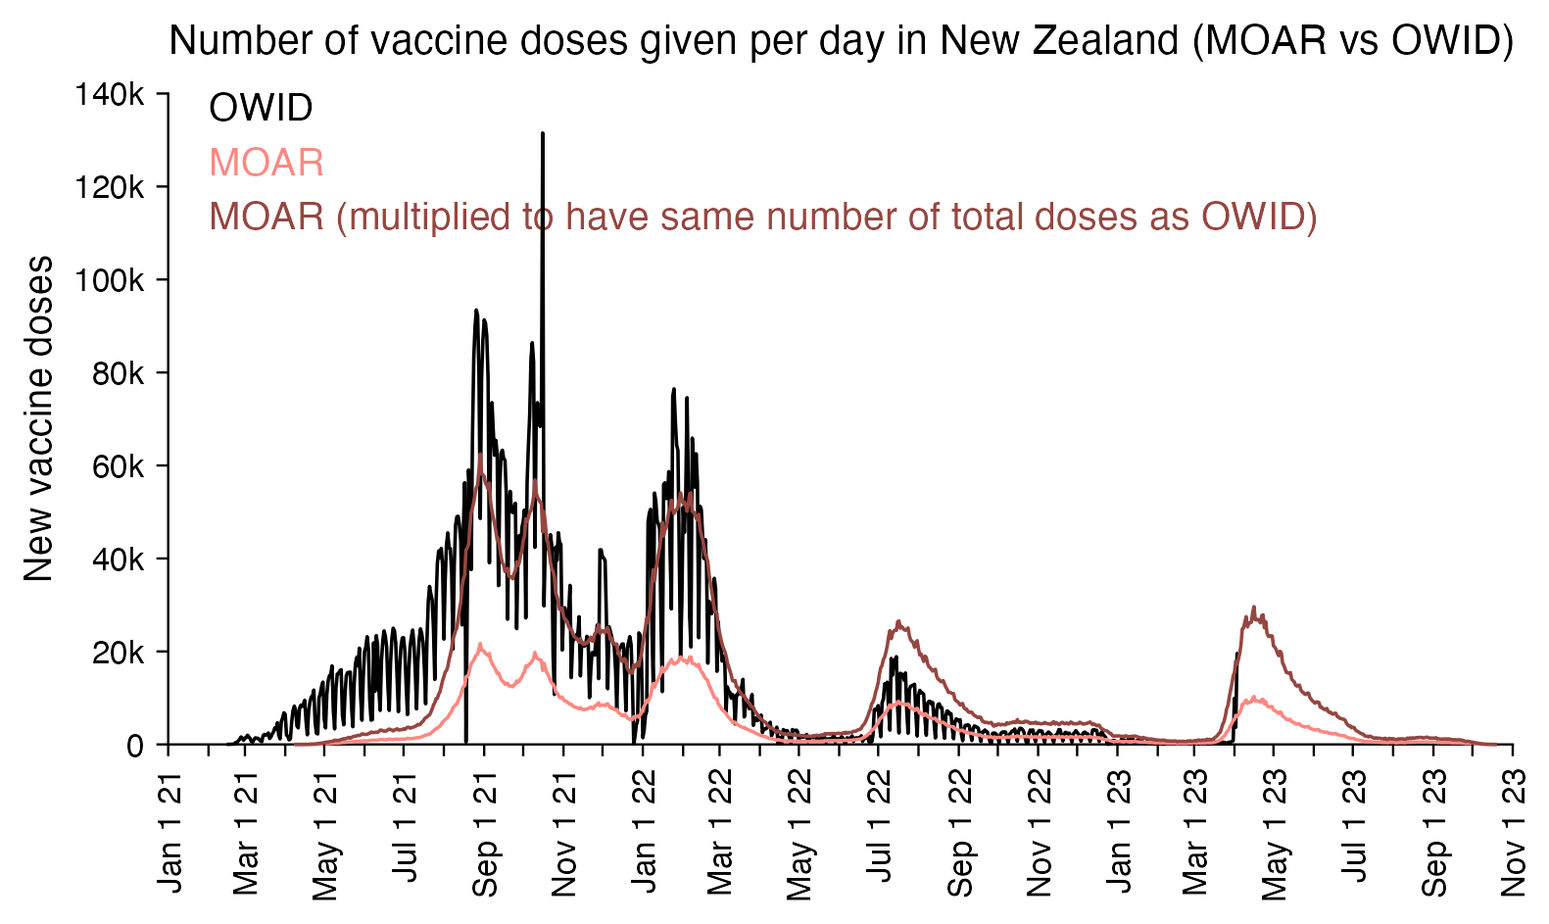
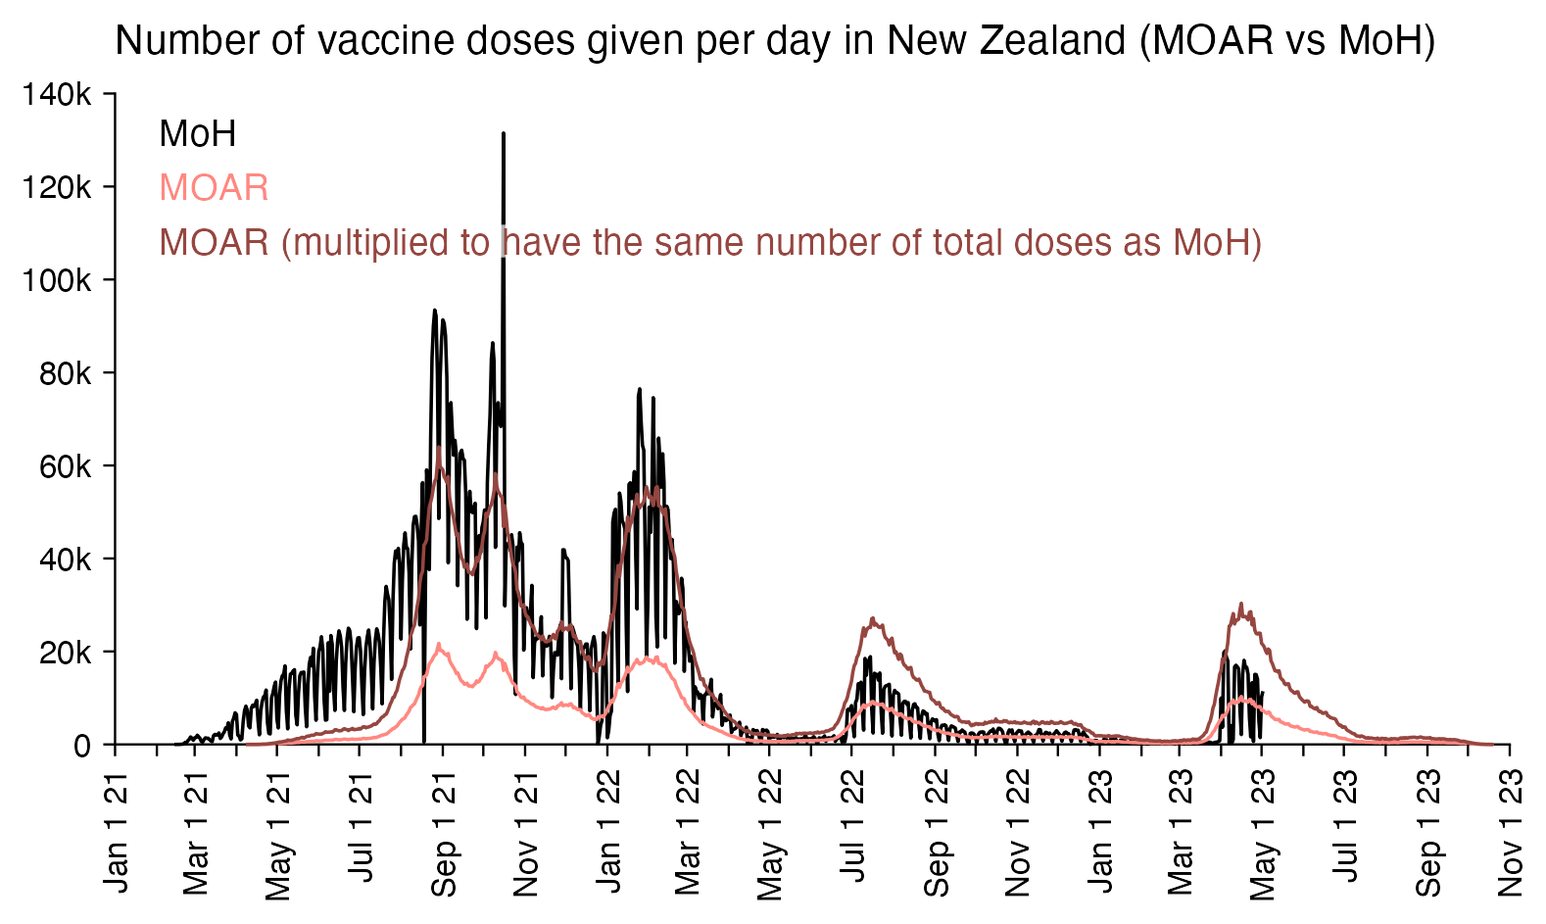
a

diff --git a/moar.html b/moar.html
@@ -47,12 +47,12 @@ th{background:#eee;text-align:left;font-weight:bold}
 <li><a href=#Background>Background</a></li>
 <li><a href=#The_data_is_obfuscated_and_only_contains_records_from_a_pay_per_dose_system>The data is obfuscated and only contains records from a pay-per-dose system</a></li>
 <li><a href=#Anomalies_in_the_CSV_file>Anomalies in the CSV file</a></li>
-<li><a href=#Batch_statistics_in_the_whistleblower_video_dont_match_the_CSV_file>Batch statistics in the whistleblower video don't match the CSV file</a></li>
+<li><a href=#Batch_statistics_in_the_whistleblowers_video_dont_match_the_CSV_file>Batch statistics in the whistleblower's video don't match the CSV file</a></li>
 <li><a href=#Heatmap_for_statistics_per_batch>Heatmap for statistics per batch</a></li>
 <li><a href=#Barry_Youngs_method_of_counting_days_with_120_or_more_deaths>Barry Young's method of counting days with 120 or more deaths</a></li>
 <li><a href=#Excess_mortality_compared_to_new_vaccinations>Excess mortality compared to new vaccinations</a></li>
 <li><a href=#Distribution_of_number_of_days_from_vaccination_until_death>Distribution of number of days from vaccination until death</a></li>
-<li><a href=#Distribution_of_vaccine_doses_given_per_day_compared_to_OWID>Distribution of vaccine doses given per day compared to OWID</a></li>
+<li><a href=#Distribution_of_vaccine_doses_given_per_day>Distribution of vaccine doses given per day</a></li>
 <li><a href=#Table_for_deaths_by_vaccination_site>Table for deaths by vaccination site</a></li>
 <li><a href=#Origins_of_MOAR_data_and_video>Origins of MOAR data and video</a></li>
 <li><a href=#Excess_mortality_in_2021_2023>Excess mortality in 2021-2023</a></li>
@@ -163,9 +163,9 @@ $ awk -F, &#39;NR&gt;1{a[$3]++}END{for(i in a)print i,a[i]}&#39; nz-record-level
 28 1
 29 1
 32 1</pre>
-<p>However the anomalies might be the result of data entry errors, or they may have been caused by the procedure that Kirsch used to obfuscate the data.</p>
+<p>However the anomalies might be the result of data entry errors, or they may have been caused by the procedure that Kirsch used to obfuscate the data. But actually some errors are expected in a large set of records that have been entered manually by humans, and if you would simulate something like the MOAR dataset, you could make it look more realistic by also introducing errors to the simulation.</p>
 <h2>
-<a href=#Batch_statistics_in_the_whistleblower_video_dont_match_the_CSV_file id=Batch_statistics_in_the_whistleblower_video_dont_match_the_CSV_file>Batch statistics in the whistleblower video don't match the CSV file</a>
+<a href=#Batch_statistics_in_the_whistleblowers_video_dont_match_the_CSV_file id=Batch_statistics_in_the_whistleblowers_video_dont_match_the_CSV_file>Batch statistics in the whistleblower's video don't match the CSV file</a>
 </h2>
 <p>Barry Young's presentation included the table below which shows the ten batches with the highest percentage of deaths per dose, but the numbers in the table don't match Kirsch's CSV file: [<a href="https://rumble.com/v3yqgsf-liz-gunn-the-mother-of-all-covid-19-vaccine-revelations-data-revealed-in-th.html">https://rumble.com/v3yqgsf-liz-gunn-the-mother-of-all-covid-19-vaccine-revelations-data-revealed-in-th.html</a>, time 47:00]</p>
 <div class="width6">
@@ -187,11 +187,11 @@ batch  doses_given  deaths  death_pct  most_common_vaccine_type_of_batch  pct_of
 <h2>
 <a href=#Heatmap_for_statistics_per_batch id=Heatmap_for_statistics_per_batch>Heatmap for statistics per batch</a>
 </h2>
-<p>In batch 1 which has by far the highest percentage of deaths per dose, the average age at death is 86 when rounded to the nearest integer, and the average age at vaccination is 66 for all recipients and 85 for dead recipients, and the average number of days between death and vaccination is about 403. The average age at vaccination among dead people is below 85 for all batches with an ID between 2 and 93, but in batch 94 and some newer batches, the average age at vaccination among dead recipients reaches above 85. But compared to batch 1, the newer batches were given much more recently, so they have a smaller percentage of deaths per dose because there's not as many people who have died of old age since vaccination:</p>
+<p>In batch 1 which has by far the highest percentage of deaths per dose, the average age at death is 86 when rounded to the nearest integer, and the average age at vaccination is 66 for all recipients and 85 for dead recipients, and the average number of days between death and vaccination is about 403. The average age at vaccination among dead recipients is below 85 for all batches with an ID between 2 and 93, but in batch 94 and some newer batches, the average age at vaccination among dead recipients reaches above 85. But compared to batch 1, the newer batches were given much more recently, so they have a smaller percentage of deaths per dose because there's not as many people who have died of old age since vaccination:</p>
 <div class="width12">
 <img src="i/moar-heat.png">
 </div>
-<p>In the heatmap above, I omitted 4 small batches that had zero deaths. The end of data refers to October 27th 2023 which is the date of the last death included in the dataset. I calculated the person-years by calculating the time from vaccine dose until either death or October 27th 2023, so that I included the time after a patient got a subsequent dose as part of the person-years of earlier doses.</p>
+<p>In the heatmap above, I omitted 4 small batches that had zero deaths. The end of data refers to October 27th 2023 which is the date of the last death included in the dataset. I calculated the person-years by calculating the time from a vaccine dose until either death or October 27th 2023, so that I included the time after a patient got a subsequent dose as part of the person-years of earlier doses.</p>
 <p>R code:</p>
 <pre>t=read.csv(&quot;nz-record-level-data-4M-records.csv&quot;)
 t2=t[t$date_of_death!=&quot;&quot;,]
@@ -306,7 +306,7 @@ system(&quot;montage -geometry +0+0 -tile 1x i[123].png 1.png&quot;)</pre>
 <div class="width9">
 <img src="i/moar-histogram.png">
 </div>
-<p>It seems unusual that there were only 7 deaths which occurred on the same day as a vaccination. In 2021-2023, the average number of deaths per day in New Zealand would be about 95-100 based on the linear trend in 2011 to 2019, and even if the MOAR dataset would only include about a third of all vaccination records, a third of 97.5 would would still be about 33. Even though I guess if people got vaccinated during the working day, then the average time of day for vaccination might be after midday, and if someone died at 4 AM then they likely hadn't been vaccinated the same day. And the MOAR dataset is also missing deaths among unvaccinated people.</p>
+<p>It seems unusual that there were only 7 deaths which occurred on the same day as a vaccination. In 2021-2023, the average number of deaths per day in New Zealand would've been about 95-100 based on the linear trend in 2011 to 2019, and even if the MOAR dataset would only include about a third of all vaccination records, a third of 97.5 would would still be about 33. Even though I guess if people got vaccinated during the working day, then the average time of day for vaccination might be after midday, and if someone died at 4 AM then they likely hadn't been vaccinated the same day. And the MOAR dataset is also missing deaths among unvaccinated people.</p>
 <p>The earliest date of vaccination in the MOAR dataset is on April 18th 2021, and the number of missing vaccination doses is disproportionately high in the first half of 2021. The latest date of death is on October 27th 2023. So in the histogram above, the number of deaths tapers off at the end of the x-axis and there is only a small number of deaths that occurred more than 800 days after a vaccination, but that's because the dataset only includes a small number of people who were vaccinated early enough that it was possible for them to die more than 800 days from the vaccination.</p>
 <p>R code:</p>
 <pre>library(ggplot2)
@@ -350,7 +350,7 @@ theme(
 )
 
 ggsave(&quot;1.png&quot;,width=6,height=3)</pre>
-<p>In the plot below which shows the number of deaths for each number of days after a vaccination, the 7-day moving average peaked on day 336 for the first dose, on day 298 for the second dose, on day 181 for the third dose, on day 145 for the 4th dose, on day 99 for the fifth dose, and on day 24 for the sixth dose. The reason why the first and second doses took longest to reach the peak was because they were given the earliest, and New Zealand had low excess mortality until 2022:</p>
+<p>In the plot below which shows the number of deaths for each number of days after a vaccination, the 7-day moving average peaked on day 336 for the first dose, on day 298 for the second dose, on day 181 for the third dose, on day 145 for the 4th dose, on day 99 for the fifth dose, and on day 24 for the sixth dose. The reason why the first and second doses took longest to reach the peak was because they were given the earliest, and New Zealand had low excess mortality until 2022. The delay from vaccination to death currently peaks at about 100 days when all doses are aggregated together, but the delay peaks at about 300 days for the first two doses, so if the first two doses wouldn't be underrepresented in the dataset then the aggregated peak might occur much later:</p>
 <div class="width9">
 <img src="i/moar-days-to-death-by-dose.png">
 </div>
@@ -364,25 +364,63 @@ ggsave(&quot;1.png&quot;,width=6,height=3)</pre>
            1            2            3            4            5            6
 &quot;2022-10-02&quot; &quot;2022-10-16&quot; &quot;2022-12-10&quot; &quot;2023-03-29&quot; &quot;2023-07-18&quot; &quot;2023-07-21&quot;</pre>
 <h2>
-<a href=#Distribution_of_vaccine_doses_given_per_day_compared_to_OWID id=Distribution_of_vaccine_doses_given_per_day_compared_to_OWID>Distribution of vaccine doses given per day compared to OWID</a>
+<a href=#Distribution_of_vaccine_doses_given_per_day id=Distribution_of_vaccine_doses_given_per_day>Distribution of vaccine doses given per day</a>
 </h2>
-<p>The proportion of vaccine doses that are missing from the MOAR dataset seems to get lower over time, so that it is high in early 2021 but much lower in late 2022 and 2023:</p>
-<div class="width6">
+<p>The proportion of vaccine doses that are missing from the MOAR dataset gets lower over time, so that the proportion is higher in 2021 but lower in 2023:</p>
+<div class="width7">
 <img src="i/moar-vs-owid-vax-dose.png">
 </div>
-<p>The data from OWID has large dips in the number of vaccines given on weekends but the MOAR data doesn't, which makes it look like it might be a moving average of daily data. And at OWID there's a big spike in the number of vaccine doses given on October 16th 2021, but a similar spike is not visible in the MOAR data.</p>
-<p>If you divide the average number of doses given on weekdays with the average number of doses given on weekends, the ratio is about 1.53 at OWID but about 0.96 in the MOAR dataset:</p>
-<pre>&gt; owid=read.csv(&quot;https://covid.ourworldindata.org/data/owid-covid-data.csv&quot;)
-&gt; weekend=format(as.Date(owid$date),&quot;%u&quot;)&gt;=&quot;6&quot;
-&gt; mean(owid$new_vaccinations[!weekend],na.rm=T)/mean(owid$new_vaccinations[weekend],na.rm=T)
-[1] 1.525399
-&gt; moar=read.csv(&quot;nz-record-level-data-4M-records.csv.gz&quot;)
+<p>From the plot above you can see that the data from the MoH has large dips in the number of vaccines given on weekends, but the data from MOAR is missing the dips which makes it look like it might be a moving average of daily data. And in the MoH data there's a single-day spike in the number of vaccine doses given on October 16th 2021, but a similar spike is not visible in the MOAR data.</p>
+<p>If you divide the average number of doses given on weekdays with the average number of doses given on weekends, the ratio is about 0.96 in the MOAR dataset, but the ratio is about 1.55 in the MoH data and about 1.53 at OWID:</p>
+<pre>&gt; moar=read.csv(&quot;nz-record-level-data-4M-records.csv.gz&quot;)
 &gt; ta=table(moar$date_time_of_service)
 &gt; weekend=format(as.Date(names(ta),&quot;%m-%d-%Y&quot;),&quot;%u&quot;)&gt;=&quot;6&quot;
 &gt; mean(ta[!weekend])/mean(ta[weekend])
-[1] 0.9575534</pre>
-<p>The MOAR data is supposed to consist of vaccine records for <span class="quote">&quot;pay-per-dose&quot;</span> vaccines, so the vaccine doses that are registered in the pay-per-dose system might have a different weekday-weekend ratio than other vaccine doses. Actually from my plot above you can see that there is regularly a slightly higher number of vaccine doses given on weekends than weekdays.</p>
-<p>At first I thought that if the MOAR data is fake, then the dips during the weekends may have been missing if the data was simulated based on weekly data instead of daily data. However that wouldn't explain why there's regularly a slightly higher number of vaccines given on weekends in the MOAR data.</p>
+[1] 0.9575534
+&gt; moh=read.csv(&quot;https://github.com/minhealthnz/nz-covid-data/raw/main/vaccine-data/2023-05-03/doses_by_date.csv&quot;)
+&gt; s=rowSums(moh[,-1])
+&gt; weekend=format(as.Date(moh[,1]),&quot;%u&quot;)&gt;=&quot;6&quot;
+&gt; mean(s[!weekend])/mean(s[weekend])
+[1] 1.551969
+&gt; owid=read.csv(&quot;https://covid.ourworldindata.org/data/owid-covid-data.csv&quot;)
+&gt; weekend=format(as.Date(owid$date),&quot;%u&quot;)&gt;=&quot;6&quot;
+&gt; mean(owid$new_vaccinations[!weekend],na.rm=T)/mean(owid$new_vaccinations[weekend],na.rm=T)
+[1] 1.525399</pre>
+<p>I have thought of three possible explanations for the difference in the weekend-weekday ratio, where I consider option 1 to be the most likely:</p>
+<ol style="list-style-type: decimal">
+<li>The procedure that was used to obfuscate the data resulted in the dates getting shifted so that some vaccine doses that were actually given on weekdays ended up being listed on weekends. Kirsch said that <span class="quote">&quot;we time-shifted all of the dates relative to each other, but the dates relative to each other are the same - we just shifted them slightly in time so that you can still do the statistical analysis without violating anyone's privacy&quot;</span>. [<a href="https://banned.video/watch?id=656a5c4e0681e68064e50415">https://banned.video/watch?id=656a5c4e0681e68064e50415</a>, time 14:25]</li>
+<li>The vaccine doses registered in the <span class="quote">&quot;pay-per-dose&quot;</span> system might have a different weekday-weekend ratio than vaccine doses registered in other systems. Actually from my plot above you can see that the MOAR data regularly has a slightly higher number of vaccine doses given on weekends than weekdays. But a problem with this explanation is that during many weekends in April 2023 and in July to December 2022, the MOAR dataset actually has a larger number of vaccine doses listed on weekends than the MoH data, even though the MOAR data is supposed to be a subset of the MoH data.</li>
+<li>At first I thought that if the MOAR data is fake, then the dips during the weekends may have been missing if the data was simulated based on weekly data instead of daily data, because I didn't find daily data for the number of new doses given in New Zealand after May 2023 but only weekly data. [<a href="https://www.tewhatuora.govt.nz/our-health-system/data-and-statistics/covid-vaccine-data/">https://www.tewhatuora.govt.nz/our-health-system/data-and-statistics/covid-vaccine-data/</a>, <a href="https://github.com/minhealthnz/nz-covid-data/blob/main/vaccine-data/2023-05-03/doses_by_date.csv">https://github.com/minhealthnz/nz-covid-data/blob/main/vaccine-data/2023-05-03/doses_by_date.csv</a>] However why would simulated data regularly have a slightly higher number of vaccines given on weekends than weekdays? Did the simulation include a parameter which modeled variation in the number of doses given on different days of the week, but its results were completely different from the real vaccination data published by the MoH?</li>
+</ol>
+<p>The data for the daily number of new vaccine doses at OWID is almost identical to a file that was published on the GitHub account of the New Zealand Ministry of Health. On some days there's a difference of one or two dose. On the last week of data included at OWID, many days have a fairly large number of missing doses, which might be because there was a registration delay in adding new vaccination doses, because OWID only includes data up to April 4th but the file published by the Ministry of Health includes data up to May 2nd:</p>
+<pre>$ wget -q https://github.com/minhealthnz/nz-covid-data/raw/main/vaccine-data/2023-05-03/doses_by_date.csv
+$ (gsed -u 1q;tail -n4)&lt;doses_by_date.csv
+Date,First doses,Second doses,Third primary doses,First Boosters,Second Boosters
+2023-04-29,28,2695,0,127,2247
+2023-04-30,12,632,0,49,774
+2023-05-01,20,6551,10,177,3452
+2023-05-02,18,7422,4,206,3788
+$ awk &#39;NR==1||/New Zealand/&#39; owid-covid-data.csv|csvtk cut -f date,new_vaccinations|awk -F, &#39;NR==FNR{a[$1]=$2;next}{x=0;for(i=2;i&lt;=NF;i++)x+=$i;if(a[$1])print $1,x,a[$1]}&#39; - &lt;(sed 1d doses_by_date.csv)|tail -n20
+2023-03-16 599 599.0
+2023-03-17 536 536.0
+2023-03-18 269 269.0
+2023-03-19 111 111.0
+2023-03-20 370 370.0
+2023-03-21 486 484.0
+2023-03-22 479 480.0
+2023-03-23 481 479.0
+2023-03-24 453 453.0
+2023-03-25 329 328.0
+2023-03-26 103 103.0
+2023-03-27 424 424.0
+2023-03-28 474 473.0
+2023-03-29 509 505.0
+2023-03-30 623 619.0
+2023-03-31 800 793.0
+2023-04-01 9958 9927.0
+2023-04-02 3692 3685.0
+2023-04-03 19746 19488.0
+2023-04-04 20129 19733.0</pre>
 <h2>
 <a href=#Table_for_deaths_by_vaccination_site id=Table_for_deaths_by_vaccination_site>Table for deaths by vaccination site</a>
 </h2>
@@ -390,8 +428,8 @@ ggsave(&quot;1.png&quot;,width=6,height=3)</pre>
 <div class="width6">
 <img src="i/moar-deaths-per-site.jpg">
 </div>
-<p>The first row of the table is a nursing home called <span class="quote">&quot;Te Hopai Home &amp; Hospital&quot;</span>, which has 191 vaccinations and 61 deaths which results in ratio of about 32% deaths per vaccination. I don't know if the number of vaccinations refers to the number of vaccine doses given or the number of vaccinated patients, because information about vaccination sites was not included in the files that Kirsch published on his cloud server.</p>
-<p>But in any case, <span class="quote">&quot;The Hopai Home &amp; Hospital&quot;</span> is a nursing home. [<a href="https://www.tehopai.co.nz/">https://www.tehopai.co.nz/</a>] The dataset published by the whistleblower includes about two and half years of data, so over that period of time, it's not that unusual that about 30% of vaccine doses in a nursing home would've been given to people who are now dead.</p>
+<p>The vaccination site on the first row of the table is called <span class="quote">&quot;Te Hopai Home &amp; Hospital&quot;</span>, which has 191 vaccinations and 61 deaths which results in ratio of about 32% deaths per vaccination. I don't know if the number of vaccinations refers to the number of vaccine doses given or the number of vaccinated patients, because data about vaccination sites was not included in the files published by Kirsch.</p>
+<p>But in any case, <span class="quote">&quot;The Hopai Home &amp; Hospital&quot;</span> is a nursing home. [<a href="https://www.tehopai.co.nz/">https://www.tehopai.co.nz/</a>] The dataset published by the whistleblower includes about two and half years of data, so over that period of time, it's not that unusual that about 30% of vaccine doses in a nursing home would've been given to people who are now dead, or in fact it would seem like a low figure. However someone posted this comment on Igor Chudov's Substack: <span class="quote">&quot;Te Hopai was a vaccination centre for the public, not just aged care residents. Teenagers got jabs there so you are being very misleading here.&quot;</span> [<a href="https://www.igor-chudov.com/p/i-analyzed-the-leaked-nz-whistleblower/comment/44717804">https://www.igor-chudov.com/p/i-analyzed-the-leaked-nz-whistleblower/comment/44717804</a>]</p>
 <h2>
 <a href=#Origins_of_MOAR_data_and_video id=Origins_of_MOAR_data_and_video>Origins of MOAR data and video</a>
 </h2>
@@ -404,7 +442,7 @@ ggsave(&quot;1.png&quot;,width=6,height=3)</pre>
 <li>2023-11-30T09:34Z - The Substack post by aussie17 is posted. [<a href="https://www.aussie17.com/p/new-zealand-government-data-administrator">https://www.aussie17.com/p/new-zealand-government-data-administrator</a>]</li>
 <li>2023-11-30T23:00Z - The Substack post by Kirsch is posted. [<a href="https://kirschsubstack.com/p/data-from-us-medicare-and-the-new">https://kirschsubstack.com/p/data-from-us-medicare-and-the-new</a>]</li>
 </ul>
-<p>Guy Hatchard wrote: <span class="quote">&quot;I write extensively in NZ at HatchardReport.com and GLOBE.GLOBAL. The data set has been offered to a number of people in NZ over the last couple of years but not taken up apparently because of the difficulties you point out including age bias, sorting out a clean and reliable set, and access to whole source. It wasn't offered to myself.&quot;</span> [<a href="https://www.igor-chudov.com/p/i-analyzed-the-leaked-nz-whistleblower/comment/44668599">https://www.igor-chudov.com/p/i-analyzed-the-leaked-nz-whistleblower/comment/44668599</a>] However Steve Kirsch said that he was next going to publish a similar set of <span class="quote">&quot;record-level data&quot;</span> from Israel and another set of record-level data from the United States. So if the data from New Zealand had been offered to other people long before Kirsch, then why did Kirsch happen to get access to the record-level data from New Zealand around the same time when he got access to similar data from Israel and the United States?</p>
+<p>Guy Hatchard wrote: <span class="quote">&quot;I write extensively in NZ at HatchardReport.com and GLOBE.GLOBAL. The data set has been offered to a number of people in NZ over the last couple of years but not taken up apparently because of the difficulties you point out including age bias, sorting out a clean and reliable set, and access to whole source. It wasn't offered to myself.&quot;</span> [<a href="https://www.igor-chudov.com/p/i-analyzed-the-leaked-nz-whistleblower/comment/44668599">https://www.igor-chudov.com/p/i-analyzed-the-leaked-nz-whistleblower/comment/44668599</a>] However Steve Kirsch said that he was next going to publish a similar set of <span class="quote">&quot;record-level data&quot;</span> from Israel and another set of record-level Medicare data from the United States. So if the data from New Zealand had been offered to other people long before Kirsch, then why did Kirsch happen to get access to the record-level data from New Zealand around the same time when he got access to similar data from Israel and the United States?</p>
 <p>An health freedom organization from New Zealand issued a statement which said: [<a href="https://www.voicesforfreedom.co.nz/blog/whistle-blower-data-release/">https://www.voicesforfreedom.co.nz/blog/whistle-blower-data-release/</a>]</p>
 <blockquote>
 <p>The whistleblower contacted us a couple of years ago. We kept in touch, and he wanted to wait until he had a more substantial data set. We checked in periodically and had a legal team and investigative journalist ready to tackle the story in 2021. Despite this, he was not ready to speak up.</p>
@@ -413,6 +451,7 @@ ggsave(&quot;1.png&quot;,width=6,height=3)</pre>
 <p>The whistleblower told us he was disappointed with this action and asked for our help to make contact with a specific influential team overseas.</p>
 </blockquote>
 <p>Nick Hudson from PANDA also tweeted: <span class="quote">&quot;Here's my concern. I was a recipient of the original data drop and part of a group asking questions about it. We more or less concluded that little could be concluded from it, and the discussion withered on the vine.&quot;</span> [<a href="https://twitter.com/NickHudsonCT/status/1730604785441628599">https://twitter.com/NickHudsonCT/status/1730604785441628599</a>]</p>
+<p>If the whistleblower was an IT professional then why didn't he publish the data himself? If I was the whistleblower, I wouldn't have trusted Kirsch to publish the data and to be responsible for analysing the data, since Kirsch wouldn't have been as familiar with the data as me, and he's busy covering a hundred other stories.</p>
 <p>On November 30th UTC Liz Gunn published a second interview with Barry Young, which also featured Andrew Brigden who is a member of the British parliament. [<a href="https://rumble.com/v3ywe8p-andrew-bridgen-on-the-m.o.a.r.-data.html"><a href="https://rumble.com/v3ywe8p-andrew-bridgen-on-the-m.o.a.r">https://rumble.com/v3ywe8p-andrew-bridgen-on-the-m.o.a.r</a>.-data.html</a>] On December 4th UTC, Brigden is going to host an event called <span class="quote">&quot;Save Our Sovereignty&quot;</span> where Kirsch, Robert Malone, David Martin, Pierre Kory, Ryan Cole, and Angush Dalgleish will speak in front of the UK parliament. [<a href="https://saveoursovereignty.co.uk/">https://saveoursovereignty.co.uk/</a>]</p>
 <h2>
 <a href=#Excess_mortality_in_2021_2023 id=Excess_mortality_in_2021_2023>Excess mortality in 2021-2023</a>
